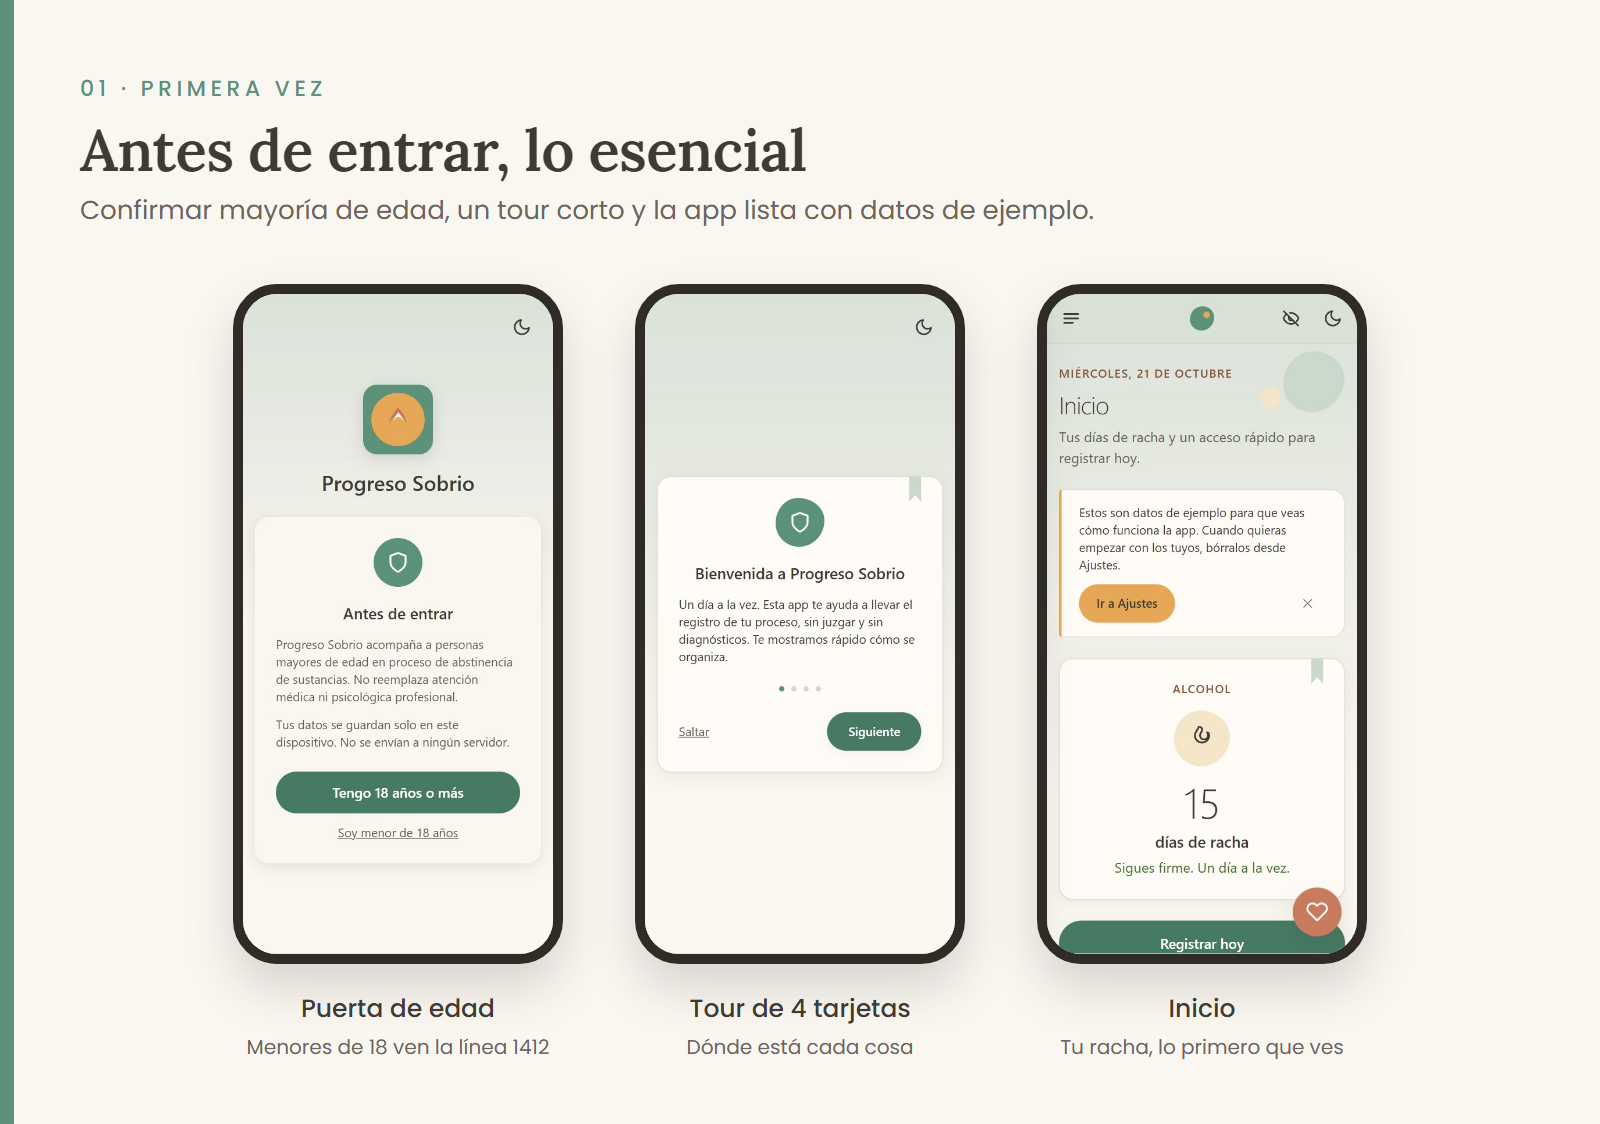
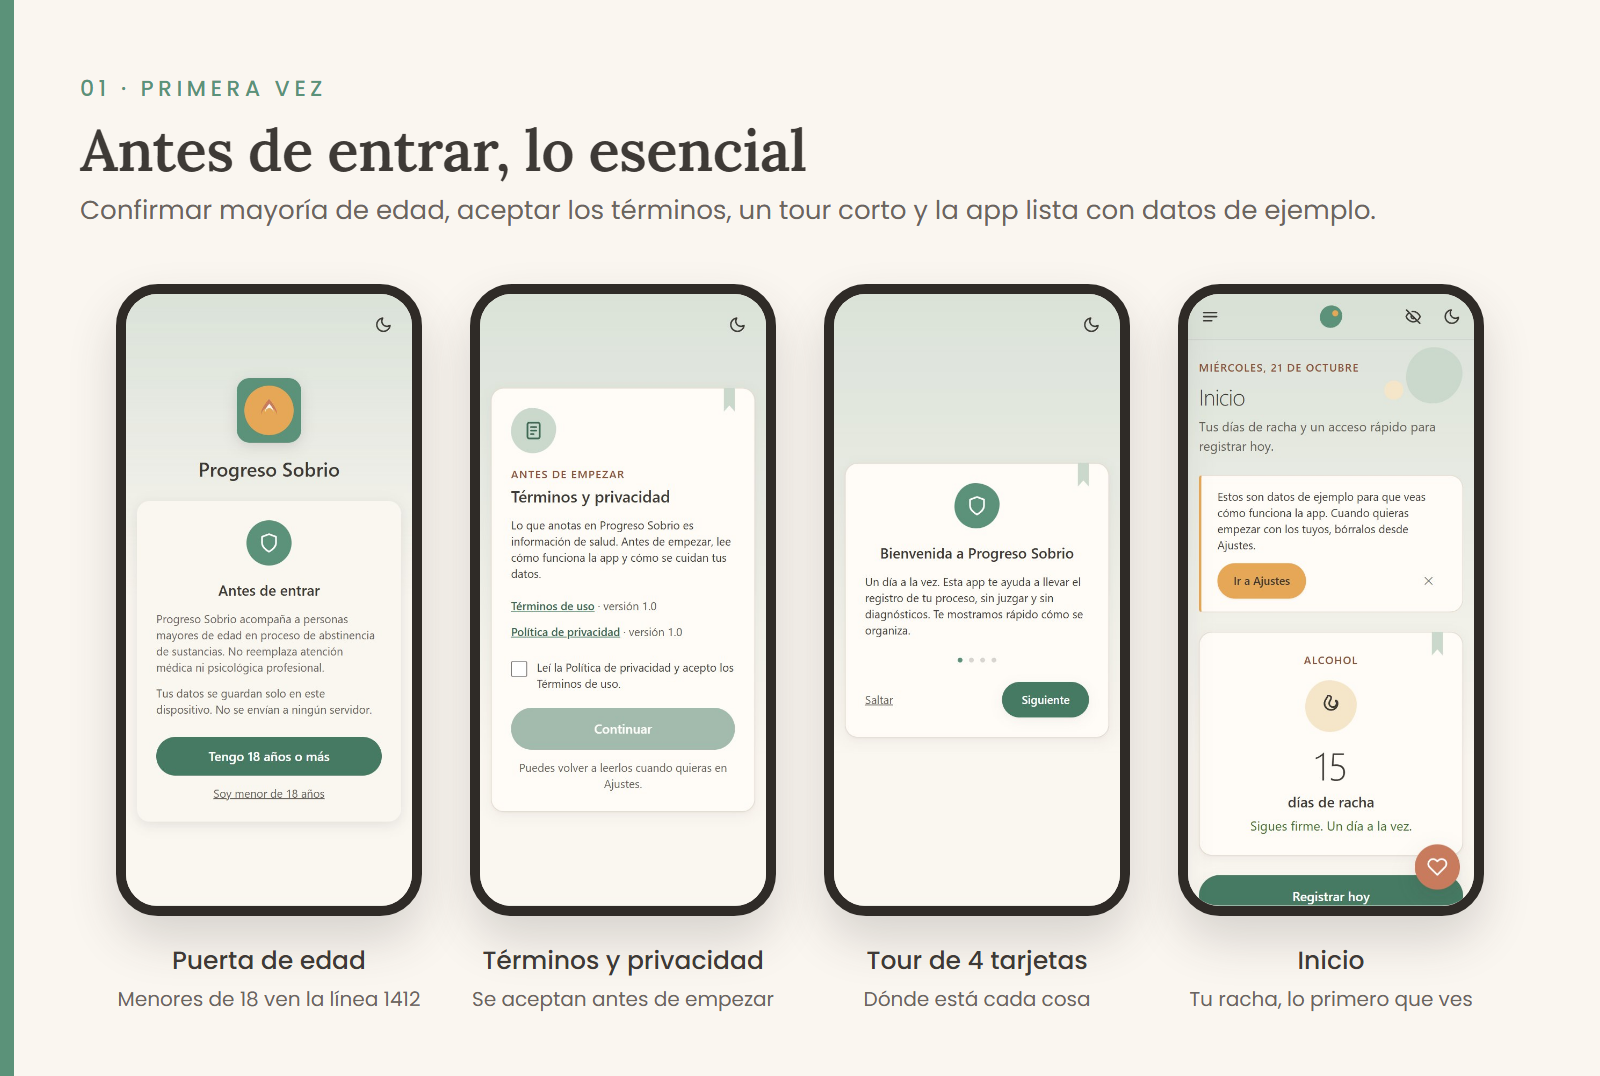
docs: términos en el collage Primera vez y modo oscuro vuelve a sus tres pantallas

diff --git a/.github/imagenes/01-primera-vez.html b/.github/imagenes/01-primera-vez.html
@@ -9,12 +9,16 @@
   <main class="lamina">
     <p class="ceja">01 · Primera vez</p>
     <h1 class="titulo">Antes de entrar, lo esencial</h1>
-    <p class="bajada">Confirmar mayoría de edad, un tour corto y la app lista con datos de ejemplo.</p>
+    <p class="bajada">Confirmar mayoría de edad, aceptar los términos, un tour corto y la app lista con datos de ejemplo.</p>
 
-    <div class="fila">
+    <div class="fila cuatro">
       <figure>
         <div class="telefono"><img src="capturas/01-puerta-edad.jpg" alt=""></div>
         <figcaption><strong>Puerta de edad</strong><span>Menores de 18 ven la línea 1412</span></figcaption>
+      </figure>
+      <figure>
+        <div class="telefono"><img src="capturas/01-terminos.jpg" alt=""></div>
+        <figcaption><strong>Términos y privacidad</strong><span>Se aceptan antes de empezar</span></figcaption>
       </figure>
       <figure>
         <div class="telefono"><img src="capturas/01-tour-bienvenida.jpg" alt=""></div>

diff --git a/.github/imagenes/03-modo-oscuro.html b/.github/imagenes/03-modo-oscuro.html
@@ -11,14 +11,10 @@
     <h1 class="titulo">Para registrar de noche, sin encandilarte</h1>
     <p class="bajada">Toda la app funciona en modo claro y oscuro.</p>
 
-    <div class="fila cuatro">
+    <div class="fila">
       <figure>
         <div class="telefono"><img src="capturas/03-puerta-edad-oscuro.jpg" alt=""></div>
         <figcaption><strong>Puerta de edad</strong><span>Un toque arriba cambia el tema</span></figcaption>
-      </figure>
-      <figure>
-        <div class="telefono"><img src="capturas/03-terminos-oscuro.jpg" alt=""></div>
-        <figcaption><strong>Términos y privacidad</strong><span>Se aceptan antes de empezar</span></figcaption>
       </figure>
       <figure>
         <div class="telefono"><img src="capturas/03-tour-red-de-apoyo-oscuro.jpg" alt=""></div>

diff --git a/README.md b/README.md
@@ -102,7 +102,7 @@ La parte de los recordatorios sí calzaba, así que la convertimos en el [issue 
 ## Capturas
 
 <p align="center">
-<img src=".github/screenshots/capturas-primera-vez.png" alt="Primera vez: puerta de edad, tour de bienvenida y pantalla de inicio con la racha">
+<img src=".github/screenshots/capturas-primera-vez.png" alt="Primera vez: puerta de edad, términos y privacidad, tour de bienvenida y pantalla de inicio con la racha">
 </p>
 
 <p align="center">
@@ -110,7 +110,7 @@ La parte de los recordatorios sí calzaba, así que la convertimos en el [issue 
 </p>
 
 <p align="center">
-<img src=".github/screenshots/capturas-modo-oscuro.png" alt="Modo oscuro: puerta de edad, términos y privacidad, tour de red de apoyo y rachas por hábito">
+<img src=".github/screenshots/capturas-modo-oscuro.png" alt="Modo oscuro: puerta de edad, tour de red de apoyo y rachas por hábito">
 </p>
 
 <p align="center">
